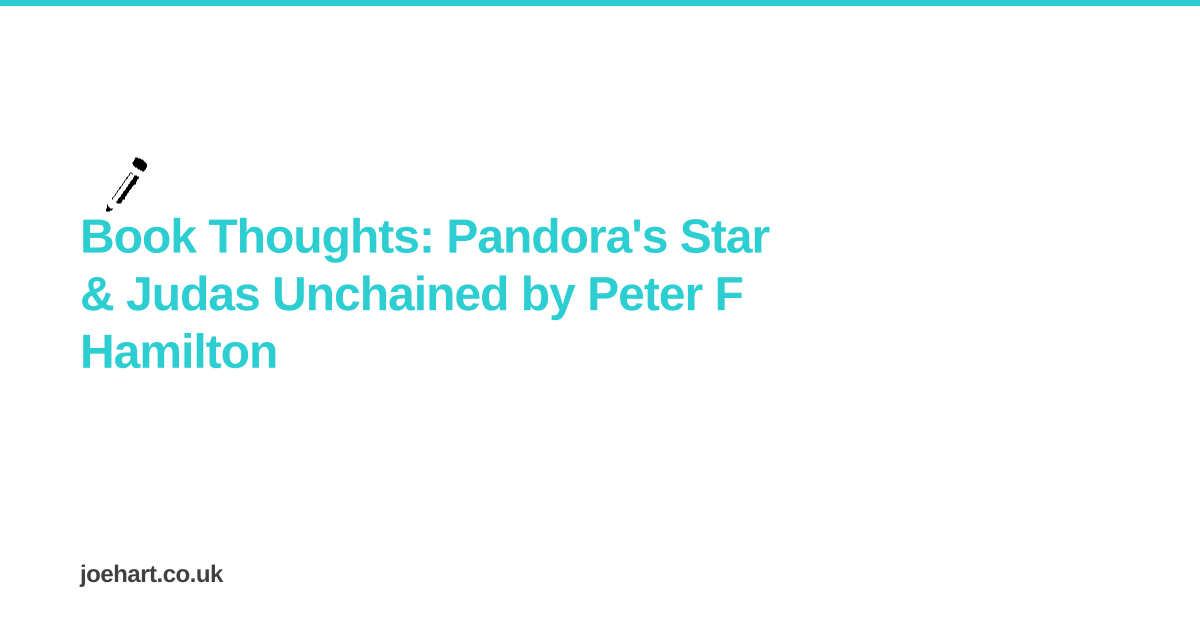
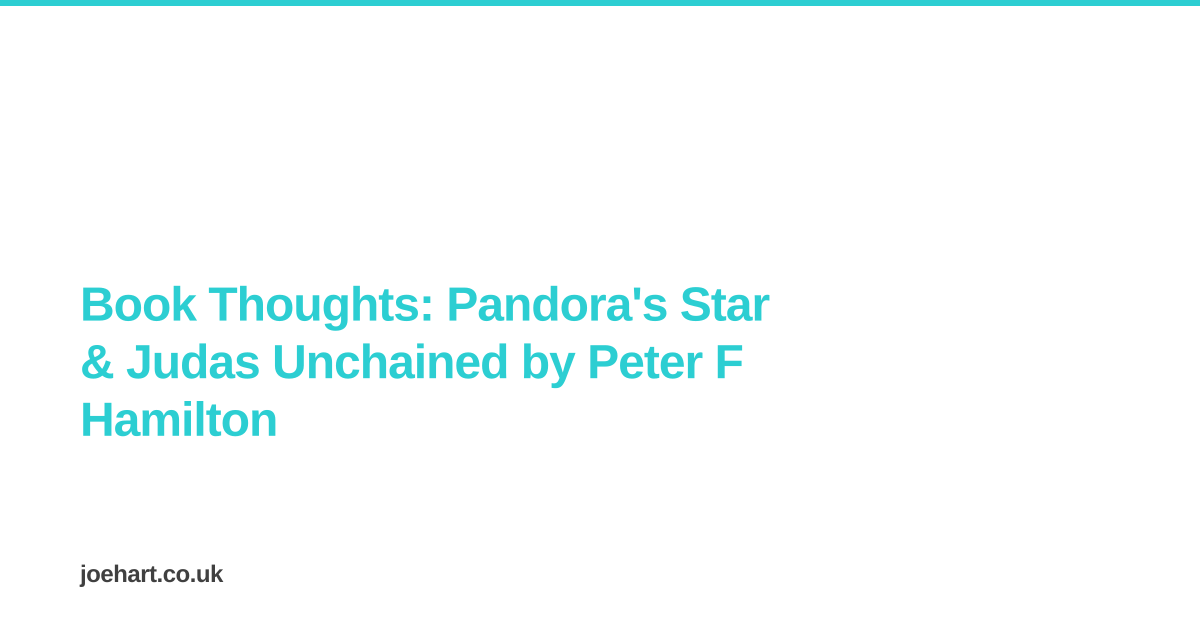
Use Apple emoji PNGs from CDN instead of SVG text rendering
SVG text rendering of emojis produces monochrome glyphs on Linux.
Now fetches Apple-style emoji PNGs from emoji-datasource-apple via
jsdelivr CDN and composites them onto the image with sharp.

Emoji images are cached in img/social/.emoji-cache/ to avoid
re-fetching on subsequent builds. Falls back gracefully to no
emoji if the fetch fails.

https://claude.ai/code/session_01QwqvTBGzZtPANMNE1vyTqV

Changed region(s): [[0.0617, 0.3317, 0.6475, 0.6032], [0.0617, 0.6333, 0.2467, 0.6937], [0.0925, 0.2413, 0.1233, 0.3317]]

diff --git a/_generate-social-image.js b/_generate-social-image.js
@@ -1,10 +1,12 @@
 const sharp = require('sharp')
 const fs = require('fs')
 const path = require('path')
+const https = require('https')
 
 const WIDTH = 1200
 const HEIGHT = 630
 const PADDING = 80
+const EMOJI_SIZE = 72
 const TEXT_COLOR = '#2cced2' // --color-accent (teal)
 const BG_COLOR = '#ffffff'
 const BODY_COLOR = '#404040'
@@ -16,6 +18,73 @@ function escapeXml(str) {
     .replace(/>/g, '&gt;')
     .replace(/"/g, '&quot;')
     .replace(/'/g, '&apos;')
+}
+
+// Convert an emoji string to its hex codepoint(s) for CDN lookup
+function emojiToCodepoint(emoji) {
+  const codepoints = []
+  for (const char of emoji) {
+    const cp = char.codePointAt(0)
+    // Skip variation selectors (fe0f, fe0e)
+    if (cp !== 0xfe0f && cp !== 0xfe0e) {
+      codepoints.push(cp.toString(16))
+    }
+  }
+  return codepoints.join('-')
+}
+
+// Fetch an Apple emoji PNG from the emoji-datasource-apple CDN
+async function fetchEmojiImage(emoji) {
+  const cacheDir = path.join(__dirname, 'img', 'social', '.emoji-cache')
+  const codepoint = emojiToCodepoint(emoji)
+  const cachePath = path.join(cacheDir, `${codepoint}.png`)
+
+  if (fs.existsSync(cachePath)) {
+    return fs.readFileSync(cachePath)
+  }
+
+  if (!fs.existsSync(cacheDir)) {
+    fs.mkdirSync(cacheDir, { recursive: true })
+  }
+
+  const url = `https://cdn.jsdelivr.net/npm/emoji-datasource-apple@16.0.0/img/apple/64/${codepoint}.png`
+
+  return new Promise((resolve, reject) => {
+    https
+      .get(url, (res) => {
+        if (res.statusCode === 302 || res.statusCode === 301) {
+          // Follow redirect
+          https
+            .get(res.headers.location, (res2) => {
+              const chunks = []
+              res2.on('data', (chunk) => chunks.push(chunk))
+              res2.on('end', () => {
+                const buf = Buffer.concat(chunks)
+                if (res2.statusCode === 200) {
+                  fs.writeFileSync(cachePath, buf)
+                  resolve(buf)
+                } else {
+                  reject(new Error(`Failed to fetch emoji: ${res2.statusCode}`))
+                }
+              })
+            })
+            .on('error', reject)
+          return
+        }
+        const chunks = []
+        res.on('data', (chunk) => chunks.push(chunk))
+        res.on('end', () => {
+          const buf = Buffer.concat(chunks)
+          if (res.statusCode === 200) {
+            fs.writeFileSync(cachePath, buf)
+            resolve(buf)
+          } else {
+            reject(new Error(`Failed to fetch emoji: ${res.statusCode}`))
+          }
+        })
+      })
+      .on('error', reject)
+  })
 }
 
 // Simple word-wrap that respects the available width
@@ -68,10 +137,11 @@ async function generateSocialImage(title, emoji, slug) {
   const totalTextHeight = lines.length * lineHeight
 
   // Position text vertically centered, or slightly above center
-  const textStartY = Math.max(PADDING + fontSize, (HEIGHT - totalTextHeight) / 2 + fontSize * 0.5)
+  const emojiSpace = emoji ? EMOJI_SIZE + 16 : 0
+  const contentHeight = emojiSpace + totalTextHeight
+  const contentStartY = Math.max(PADDING, (HEIGHT - contentHeight) / 2)
 
-  const emojiDisplay = emoji || ''
-  const emojiSize = fontSize * 1.2
+  const textStartY = contentStartY + emojiSpace + fontSize
 
   const titleLines = lines
     .map((line, i) => {
@@ -79,12 +149,6 @@ async function generateSocialImage(title, emoji, slug) {
       return `<text x="${PADDING}" y="${y}" font-family="Arial, Helvetica, sans-serif" font-size="${fontSize}" font-weight="700" fill="${TEXT_COLOR}" letter-spacing="-1">${escapeXml(line)}</text>`
     })
     .join('\n    ')
-
-  // Add the emoji above the title
-  const emojiY = textStartY - lineHeight * 0.8
-  const emojiElement = emojiDisplay
-    ? `<text x="${PADDING}" y="${emojiY}" font-size="${emojiSize}">${emojiDisplay}</text>`
-    : ''
 
   // Add site name at the bottom
   const footerY = HEIGHT - PADDING * 0.6
@@ -96,12 +160,35 @@ async function generateSocialImage(title, emoji, slug) {
   const svg = `<svg width="${WIDTH}" height="${HEIGHT}" xmlns="http://www.w3.org/2000/svg">
     <rect width="${WIDTH}" height="${HEIGHT}" fill="${BG_COLOR}" />
     ${accentBar}
-    ${emojiElement}
     ${titleLines}
     ${footerElement}
   </svg>`
 
-  await sharp(Buffer.from(svg)).png().toFile(outputFile)
+  let image = sharp(Buffer.from(svg)).png()
+
+  // Composite the Apple emoji on top if we have one
+  if (emoji) {
+    try {
+      const emojiBuffer = await fetchEmojiImage(emoji)
+      // Resize emoji to desired size
+      const emojiResized = await sharp(emojiBuffer).resize(EMOJI_SIZE, EMOJI_SIZE).png().toBuffer()
+
+      // Get the base image as a buffer first, then composite
+      const baseBuffer = await image.toBuffer()
+      image = sharp(baseBuffer).composite([
+        {
+          input: emojiResized,
+          top: Math.round(contentStartY),
+          left: PADDING,
+        },
+      ])
+    } catch (e) {
+      console.warn(`[social-image] Could not fetch emoji "${emoji}":`, e.message)
+      // Continue without emoji
+    }
+  }
+
+  await image.png().toFile(outputFile)
 
   return publicPath
 }
